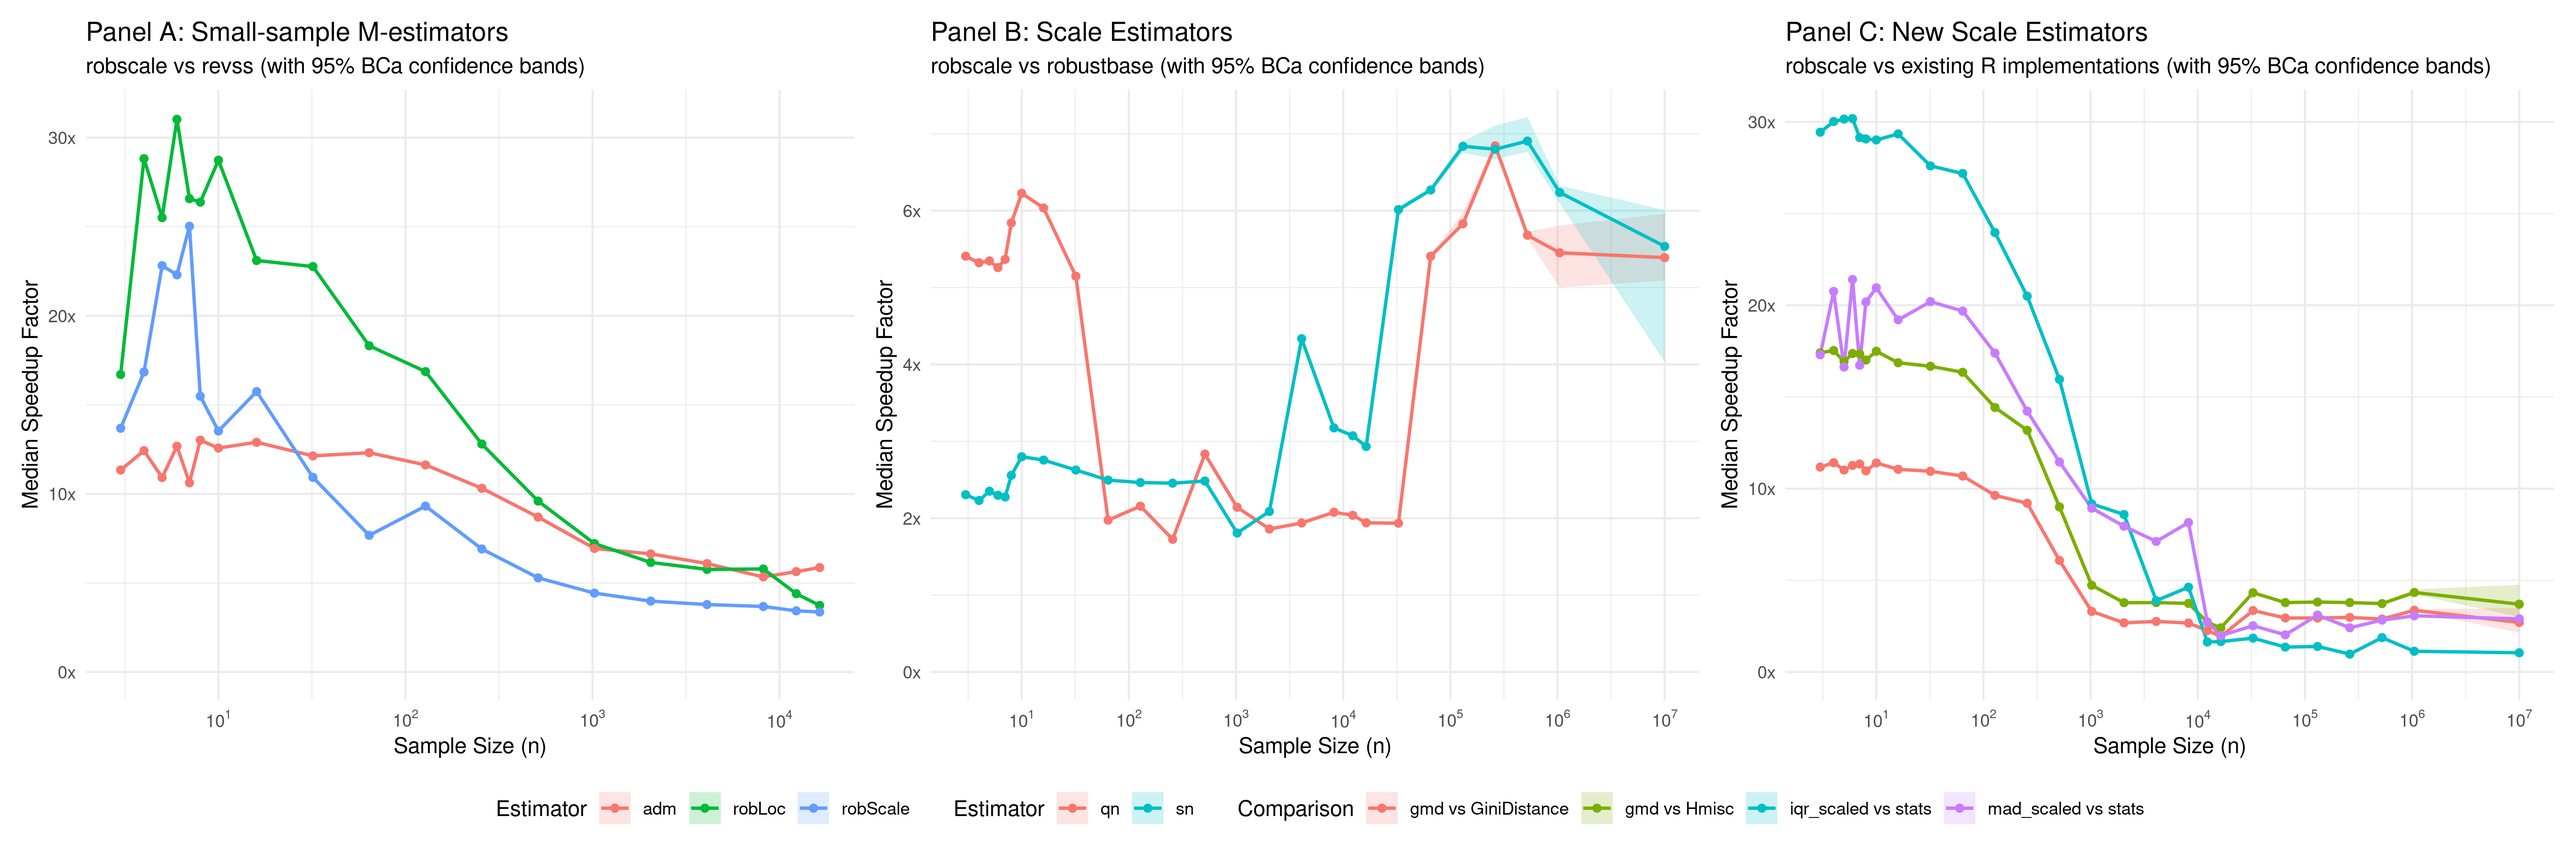
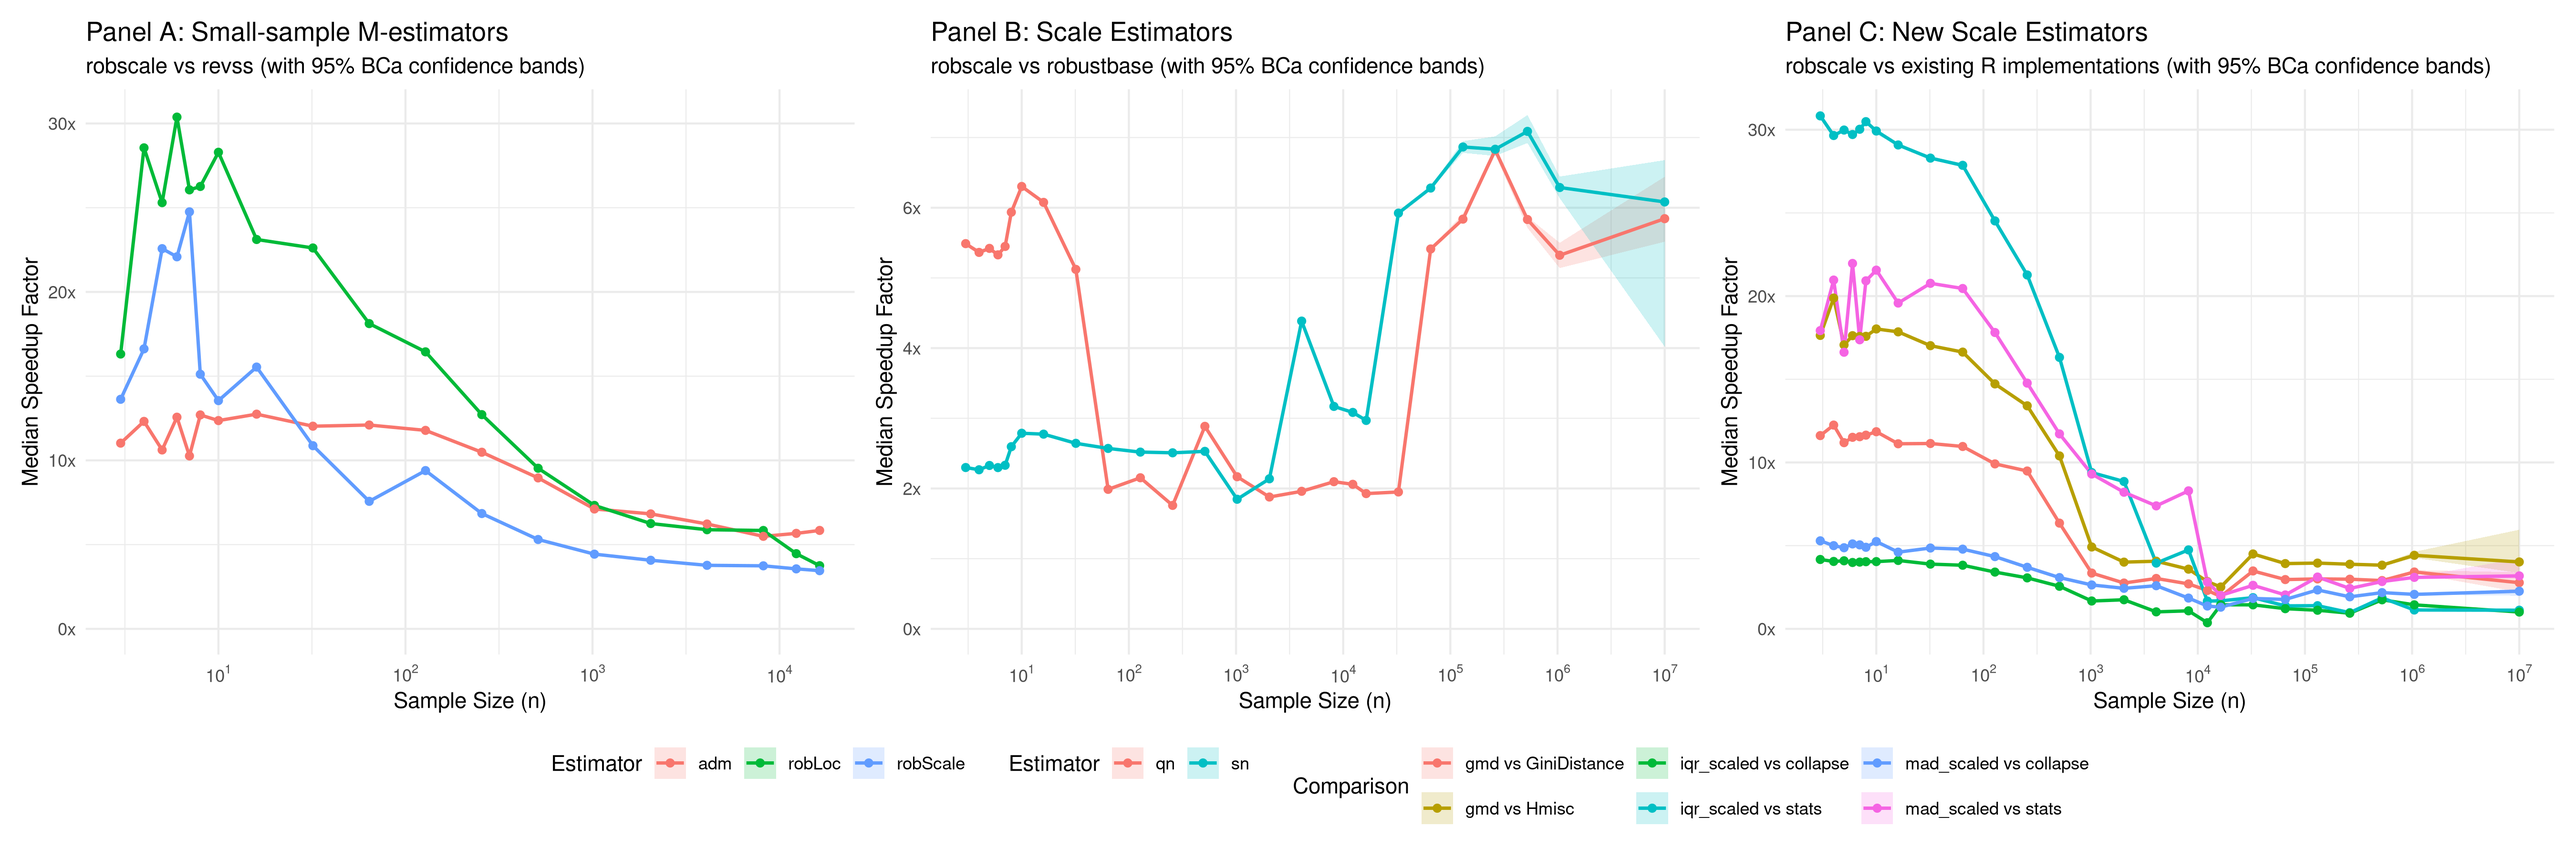
docs: replace missing collapse::fmad with custom fast_mad and re-render README

diff --git a/README.md b/README.md
@@ -26,13 +26,13 @@ samples, with an automatic switch to the GMD for large samples.
 All estimators are implemented as C++17 kernels with SIMD-accelerated
 transcendental functions, Newton–Raphson iteration, and parallelized
 $O(n \log n)$ algorithms. Against `revss`, the package achieves
-**10.6–31.0x** speedups for the small-sample M-estimators. Against
-`robustbase`, it achieves **1.8–6.9x** for $S_n$ and **1.7–6.8x** for
-$Q_n$—with gains peaking near **6.9x** at $n = 10^7$ as TBB parallelism
+**10.3–30.4x** speedups for the small-sample M-estimators. Against
+`robustbase`, it achieves **1.8–7.1x** for $S_n$ and **1.8–6.8x** for
+$Q_n$—with gains peaking near **7.1x** at $n = 10^7$ as TBB parallelism
 reduces the computational bottleneck for massive datasets. The new
 estimators (`gmd`, `iqr_scaled`, `mad_scaled`) outperform their base R
-and CRAN counterparts by **2.4–17.5x** (GMD vs `Hmisc`), **1.0–30.2x**
-(IQR vs `stats::IQR`), and **2.0–21.4x** (MAD vs `stats::mad`).
+and CRAN counterparts by **2.5–19.9x** (GMD vs `Hmisc`), **1.0–30.8x**
+(IQR vs `stats::IQR`), and **2.0–22.0x** (MAD vs `stats::mad`).
 
 ## Installation
 
@@ -645,12 +645,12 @@ Table 4
 
 |      $n$ | `robustbase::Qn` | `robscale::qn` | Speedup  |
 |---------:|:-----------------|:---------------|:---------|
-|        8 | 9.2 µs           | 1.6 µs         | **5.8x** |
-|       16 | 10.5 µs          | 1.7 µs         | **6.0x** |
-|       64 | 14.1 µs          | 7.2 µs         | **2.0x** |
-|     1024 | 463.9 µs         | 216.2 µs       | **2.1x** |
-|    65536 | 57740.3 µs       | 10676.7 µs     | **5.4x** |
-| 10000000 | 9.9 s            | 1.8 s          | **5.4x** |
+|        8 | 9.4 µs           | 1.6 µs         | **5.9x** |
+|       16 | 10.5 µs          | 1.7 µs         | **6.1x** |
+|       64 | 14.2 µs          | 7.2 µs         | **2.0x** |
+|     1024 | 469.2 µs         | 216.2 µs       | **2.2x** |
+|    65536 | 57792.2 µs       | 10676.7 µs     | **5.4x** |
+| 10000000 | 10.8 s           | 1.8 s          | **5.8x** |
 
 </div>
 
@@ -660,12 +660,12 @@ Table 5
 
 |      $n$ | `robustbase::Sn` | `robscale::sn` | Speedup  |
 |---------:|:-----------------|:---------------|:---------|
-|        8 | 4.0 µs           | 1.6 µs         | **2.6x** |
-|       16 | 4.5 µs           | 1.6 µs         | **2.8x** |
-|       64 | 5.3 µs           | 2.1 µs         | **2.5x** |
-|     1024 | 35.2 µs          | 19.4 µs        | **1.8x** |
-|    65536 | 6680.1 µs        | 1066.1 µs      | **6.3x** |
-| 10000000 | 1.4 s            | 0.2 s          | **5.5x** |
+|        8 | 4.1 µs           | 1.6 µs         | **2.6x** |
+|       16 | 4.6 µs           | 1.6 µs         | **2.8x** |
+|       64 | 5.5 µs           | 2.1 µs         | **2.6x** |
+|     1024 | 35.9 µs          | 19.4 µs        | **1.8x** |
+|    65536 | 6693.4 µs        | 1066.1 µs      | **6.3x** |
+| 10000000 | 1.5 s            | 0.2 s          | **6.1x** |
 
 </div>
 
@@ -751,7 +751,7 @@ compares `qn` and `sn` against `robustbase`; Panel C compares `gmd`,
 ### Small-sample M-estimators vs. `revss` (Panel A)
 
 In the target regime ($n \le 20$), `robscale` outperforms `revss` by
-**10.6–31.0x**. Drivers include:
+**10.3–30.4x**. Drivers include:
 
 - Transitioning from interpreted R to compiled C++17.
 - Achieving quadratic convergence with Newton–Raphson (3 iterations vs
@@ -759,7 +759,7 @@ In the target regime ($n \le 20$), `robscale` outperforms `revss` by
 - Eliminating heap allocation via stack-allocated memory arenas.
 - Deploying optimal sorting networks for $n \le 16$.
 
-Even at $n = 16{,}384$, the gains remain **3.4–5.9x** because the
+Even at $n = 16{,}384$, the gains remain **3.5–5.8x** because the
 interpreter overhead of `revss` scales with the number of Newton–Raphson
 iterations, not just vector length.
 
@@ -769,15 +769,15 @@ For $Q_n$ and $S_n$, the performance story follows two regimes separated
 by the parallelism threshold:
 
 **Small to medium samples ($n \le 10^3$).** `robscale` leads by
-**1.7–6.8x**. The gain comes primarily from the avoidance of R dispatch
+**1.8–6.8x**. The gain comes primarily from the avoidance of R dispatch
 overhead and the use of stack memory. For $Q_n$ at $n = 8$, the
-brute-force exact algorithm completes in 1.6 µs vs. 9.2 µs for
-`robustbase` — a **5.8x** edge.
+brute-force exact algorithm completes in 1.6 µs vs. 9.4 µs for
+`robustbase` — a **5.9x** edge.
 
-**Large samples ($n \ge 10^4$).** The advantage grows to **1.9–6.9x** as
-TBB parallelism engages. At $n = 10^7$, `qn` runs in 1.8 s vs. 9.9 s for
-`robustbase::Qn` (**5.4x**), and `sn` runs in 0.2 s vs. 1.4 s
-(**5.5x**). Parallel efficiency is bounded by Amdahl’s Law and memory
+**Large samples ($n \ge 10^4$).** The advantage grows to **1.9–7.1x** as
+TBB parallelism engages. At $n = 10^7$, `qn` runs in 1.8 s vs. 10.8 s
+for `robustbase::Qn` (**5.8x**), and `sn` runs in 0.2 s vs. 1.5 s
+(**6.1x**). Parallel efficiency is bounded by Amdahl’s Law and memory
 bandwidth; while the multi-threaded kernels provide substantial gains
 for massive datasets, speedups do not scale linearly with thread count.
 
@@ -787,43 +787,57 @@ for massive datasets, speedups do not scale linearly with thread count.
 
 Table 6
 
-|      $n$ | Comparison          | Speedup   |
-|---------:|:--------------------|:----------|
-|       64 | gmd vs GiniDistance | **10.7x** |
-|       64 | gmd vs Hmisc        | **16.3x** |
-|       64 | iqr_scaled vs stats | **27.2x** |
-|       64 | mad_scaled vs stats | **19.7x** |
-|     1024 | gmd vs GiniDistance | **3.3x**  |
-|     1024 | gmd vs Hmisc        | **4.7x**  |
-|     1024 | iqr_scaled vs stats | **9.2x**  |
-|     1024 | mad_scaled vs stats | **8.9x**  |
-|    65536 | gmd vs GiniDistance | **2.9x**  |
-|    65536 | gmd vs Hmisc        | **3.8x**  |
-|    65536 | iqr_scaled vs stats | **1.4x**  |
-|    65536 | mad_scaled vs stats | **2.0x**  |
-| 10000000 | gmd vs GiniDistance | **2.7x**  |
-| 10000000 | gmd vs Hmisc        | **3.7x**  |
-| 10000000 | iqr_scaled vs stats | **1.0x**  |
-| 10000000 | mad_scaled vs stats | **2.9x**  |
+|      $n$ | Comparison             | Speedup   |
+|---------:|:-----------------------|:----------|
+|       64 | gmd vs GiniDistance    | **11.0x** |
+|       64 | gmd vs Hmisc           | **16.6x** |
+|       64 | iqr_scaled vs collapse | **3.8x**  |
+|       64 | iqr_scaled vs stats    | **27.9x** |
+|       64 | mad_scaled vs collapse | **4.8x**  |
+|       64 | mad_scaled vs stats    | **20.5x** |
+|     1024 | gmd vs GiniDistance    | **3.4x**  |
+|     1024 | gmd vs Hmisc           | **4.9x**  |
+|     1024 | iqr_scaled vs collapse | **1.7x**  |
+|     1024 | iqr_scaled vs stats    | **9.4x**  |
+|     1024 | mad_scaled vs collapse | **2.6x**  |
+|     1024 | mad_scaled vs stats    | **9.3x**  |
+|    65536 | gmd vs GiniDistance    | **3.0x**  |
+|    65536 | gmd vs Hmisc           | **3.9x**  |
+|    65536 | iqr_scaled vs collapse | **1.2x**  |
+|    65536 | iqr_scaled vs stats    | **1.4x**  |
+|    65536 | mad_scaled vs collapse | **1.8x**  |
+|    65536 | mad_scaled vs stats    | **2.0x**  |
+| 10000000 | gmd vs GiniDistance    | **2.8x**  |
+| 10000000 | gmd vs Hmisc           | **4.0x**  |
+| 10000000 | iqr_scaled vs collapse | **1.0x**  |
+| 10000000 | iqr_scaled vs stats    | **1.1x**  |
+| 10000000 | mad_scaled vs collapse | **2.3x**  |
+| 10000000 | mad_scaled vs stats    | **3.2x**  |
 
 </div>
 
-**GMD** (`robscale::gmd` vs `Hmisc::GiniMd`): **2.4–17.5x** speedup.
+**GMD** (`robscale::gmd` vs `Hmisc::GiniMd`): **2.5–19.9x** speedup.
 `Hmisc::GiniMd` is a pure R implementation using the same $O(n \log n)$
 order-statistics formula. The speedup comes from C++ compilation and
 sorting networks for small $n$. Against `GiniDistance::gmd` (an
-Rcpp-backed C++ implementation), the comparison is **1.9–11.4x**—a
+Rcpp-backed C++ implementation), the comparison is **1.9–12.2x**—a
 tighter race since both are compiled, with `robscale`’s advantage coming
 from sorting networks and the consistency-constant integration.
 
-**IQR** (`robscale::iqr_scaled` vs `stats::IQR`): **1.0–30.2x** speedup.
+**IQR** (`robscale::iqr_scaled` vs `stats::IQR`): **1.0–30.8x** speedup.
 `stats::IQR` performs a full $O(n \log n)$ sort via `quantile()`.
 `robscale` uses dual $O(n)$ Floyd–Rivest selection, which dominates at
-large $n$.
+large $n$. Against `collapse::fquantile` (a C-backed quantile
+implementation), the speedup is **0.4–4.2x**—a more informative
+comparison since both are compiled, revealing whether Floyd–Rivest
+selection outpaces `collapse`’s C implementation.
 
-**MAD** (`robscale::mad_scaled` vs `stats::mad`): **2.0–21.4x** speedup.
-`stats::mad` also performs a full sort for the median step. `robscale`
-uses $O(n)$ selection throughout.
+**MAD** (`robscale::mad_scaled` vs `stats::mad`): **2.0–22.0x** speedup.
+`stats::mad` performs a full sort for the median step. Against a custom
+fast MAD (using `collapse::fmedian`), the speedup is **1.3–5.3x**—the
+key comparison since both are compiled; `robscale`’s advantage comes
+from $O(n)$ Floyd–Rivest selection vs `collapse`’s sorting-based
+approach.
 
 > \[!NOTE\] **Source builds recommended.** Installing from source
 > (`install.packages("robscale", type = "source")`) enables the
